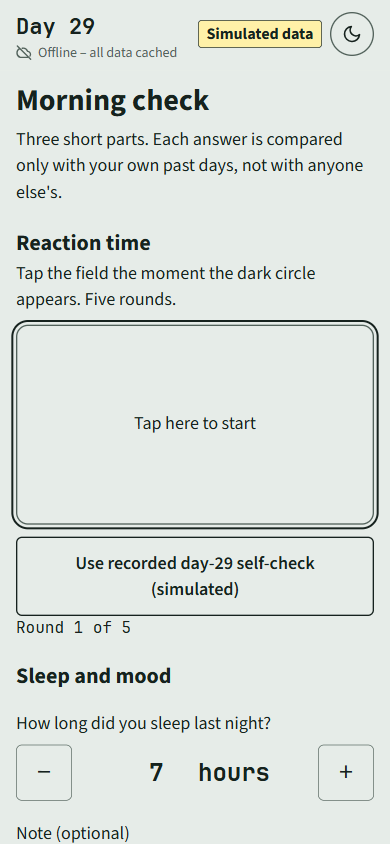
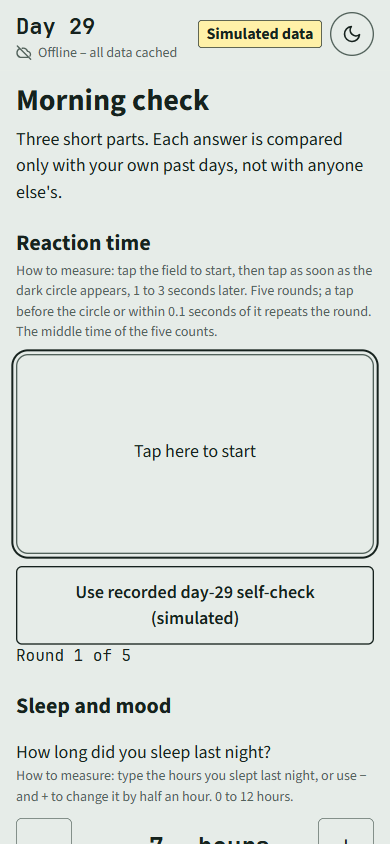
Statement labels: Guidance, Needs flight surgeon attention, and a How to measure line under each self-check part

diff --git a/web/index.html b/web/index.html
@@ -290,7 +290,7 @@ fieldset { border: 0; padding: 0; margin: 28px 0 0; min-width: 0; }
   <p>Three short parts. Each answer is compared only with your own past days, not with anyone else's.</p>
 
   <h2>Reaction time</h2>
-  <p>Tap the field the moment the dark circle appears. Five rounds.</p>
+  <p class="meta how">How to measure: tap the field to start, then tap as soon as the dark circle appears, 1 to 3 seconds later. Five rounds; a tap before the circle or within 0.1 seconds of it repeats the round. The middle time of the five counts.</p>
   <button id="rt-field" class="rt" type="button" aria-describedby="rt-status">
     <span id="rt-dot" class="rt-dot" role="img" aria-label="Circle shown, tap now" hidden></span>
     <span id="rt-text">Tap here to start</span>
@@ -302,6 +302,7 @@ fieldset { border: 0; padding: 0; margin: 28px 0 0; min-width: 0; }
 
   <h2>Sleep and mood</h2>
   <label class="q" for="sleep">How long did you sleep last night?</label>
+  <p class="meta how">How to measure: type the hours you slept last night, or use − and + to change it by half an hour. 0 to 12 hours.</p>
   <div class="stepper">
     <button class="step-btn" type="button" data-step="-0.5" aria-label="Half an hour less">−</button>
     <span class="step-field"><input id="sleep" class="field" type="number" inputmode="decimal" step="0.5" min="0" max="12" value="7"> hours</span>
@@ -312,6 +313,7 @@ fieldset { border: 0; padding: 0; margin: 28px 0 0; min-width: 0; }
 
   <fieldset aria-describedby="quality-ends">
     <legend>How well did you sleep?</legend>
+    <p class="meta how">How to measure: tap one number, from 1 (badly) to 5 (very well).</p>
     <div class="seg">
       <input type="radio" id="quality-1" name="quality" value="1"><label for="quality-1">1</label>
       <input type="radio" id="quality-2" name="quality" value="2"><label for="quality-2">2</label>
@@ -324,6 +326,7 @@ fieldset { border: 0; padding: 0; margin: 28px 0 0; min-width: 0; }
 
   <fieldset aria-describedby="mood-ends">
     <legend>How is your mood this morning?</legend>
+    <p class="meta how">How to measure: tap one number, from 1 (very low) to 5 (very good).</p>
     <div class="seg">
       <input type="radio" id="mood-1" name="mood" value="1"><label for="mood-1">1</label>
       <input type="radio" id="mood-2" name="mood" value="2"><label for="mood-2">2</label>
@@ -335,7 +338,7 @@ fieldset { border: 0; padding: 0; margin: 28px 0 0; min-width: 0; }
   </fieldset>
 
   <h2>Near vision</h2>
-  <p>Hold the phone where you normally read, then read this line.</p>
+  <p class="meta how">How to measure: hold the phone where you normally read, read the line below, then tap Clear or Blurred.</p>
   <p class="eye-line">The galley water heater is back online after the filter swap on Thursday.</p>
   <fieldset>
     <legend>The line looks</legend>
@@ -434,7 +437,7 @@ fieldset { border: 0; padding: 0; margin: 28px 0 0; min-width: 0; }
   <p id="ev-words"></p>
   <p id="ev-study" class="cite"></p>
   <div class="step-card">
-    <h2>Step to consider</h2>
+    <h2>Guidance</h2>
     <p id="ev-step"></p>
     <p id="ev-step-source" class="cite"></p>
   </div>
@@ -463,7 +466,7 @@ fieldset { border: 0; padding: 0; margin: 28px 0 0; min-width: 0; }
 
 <section id="queue" aria-labelledby="queue-title" hidden>
   <button class="text-button back" type="button" data-go="evidence">Back to the evidence</button>
-  <h1 id="queue-title" tabindex="-1">Queued for flight surgeon</h1>
+  <h1 id="queue-title" tabindex="-1">Needs flight surgeon attention</h1>
   <p class="sent">Sent to the queue. Earliest reply in 44 minutes (22 minutes each way at Mars distance).</p>
   <h2>Summary in the queue</h2>
   <div id="message" class="message"></div>

diff --git a/tests/test_web.py b/tests/test_web.py
@@ -283,3 +283,42 @@ def test_7_day_view_shows_the_same_band_and_marks_as_the_30_day_view():
             assert week[k] == month[k][-7:], f"{key} {k}"
     marked = {k.split()[1] for k, v in out.items() if k.startswith("29 ") and any(v["week"]["marks"])}
     assert {"reaction_ms", "hrv_rmssd_ms", "sleep_hours"} <= marked, "the three demo flags show in the 7-day view on day 29"
+
+
+HOW_TO_MEASURE = [
+    ("<h2>Reaction time</h2>", "tap the field to start, then tap as soon as the dark circle appears, 1 to 3 seconds later. "
+     "Five rounds; a tap before the circle or within 0.1 seconds of it repeats the round. The middle time of the five counts."),
+    ('<label class="q" for="sleep">How long did you sleep last night?</label>',
+     "type the hours you slept last night, or use − and + to change it by half an hour. 0 to 12 hours."),
+    ("<legend>How well did you sleep?</legend>", "tap one number, from 1 (badly) to 5 (very well)."),
+    ("<legend>How is your mood this morning?</legend>", "tap one number, from 1 (very low) to 5 (very good)."),
+    ("<h2>Near vision</h2>", "hold the phone where you normally read, read the line below, then tap Clear or Blurred."),
+]
+
+
+def test_statement_labels_guidance_and_needs_flight_surgeon_attention():
+    """PLAN 4a (Gate 1 labels): the step on the evidence card is headed "Guidance" and the queue screen
+    "Needs flight surgeon attention"; the old headings are gone. The queue button keeps its action wording."""
+    html = Path("web/index.html").read_text(encoding="utf-8")
+    evidence = html[html.index('<section id="evidence"'):html.index('<section id="queue"')]
+    assert "<h2>Guidance</h2>" in evidence
+    assert '<h1 id="queue-title" tabindex="-1">Needs flight surgeon attention</h1>' in html
+    for old in ("Step to consider", "Queued for flight surgeon"):
+        assert old not in html and old not in Path("web/app.js").read_text(encoding="utf-8"), old
+    assert '<button id="queue-btn" class="primary" type="button">Queue for flight surgeon</button>' in html
+
+
+def test_one_how_to_measure_line_under_each_self_check_part():
+    """PLAN 4a: one "How to measure" line directly under each part, saying what the person does; the facts in
+    it come from the code (reaction.js rounds, false-start cut and delay; the sleep field's range and step)."""
+    html = Path("web/index.html").read_text(encoding="utf-8")
+    today = html[html.index('<section id="today"'):html.index('<p id="missing"')]
+    found = re.findall(r'<p class="meta how">How to measure: ([^<]+)</p>', today)
+    assert found == [line for _, line in HOW_TO_MEASURE]
+    for anchor, line in HOW_TO_MEASURE:
+        assert re.search(re.escape(anchor) + r'\s*<p class="meta how">How to measure: ' + re.escape(line), today), anchor
+        assert not [p for p in BLOCKED if p in line.lower()]
+    js = Path("web/reaction.js").read_text(encoding="utf-8")
+    assert "const ROUNDS = 5;" in js and "const GUESS_MS = 100;" in js and "1000 + random * 2000" in js
+    assert 'step="0.5" min="0" max="12"' in today
+    assert '<label for="vision-clear">Clear</label>' in today and '<label for="vision-blurred">Blurred</label>' in today

diff --git a/README.md b/README.md
@@ -9,7 +9,7 @@
   &nbsp;
   <img src="web/screenshots/3-flags-390.png" width="260" alt="Flag list: reaction time, heart rate variability and sleep are outside the usual range today, and several readings moved together within 48 hours.">
   &nbsp;
-  <img src="web/screenshots/4-evidence-390.png" width="260" alt="Evidence card for reaction time: the change in plain words, the numbers, why it matters with the NTRS source link, and a step to consider.">
+  <img src="web/screenshots/4-evidence-390.png" width="260" alt="Evidence card for reaction time: the change in plain words, the numbers, why it matters with the NTRS source link, and "Guidance": one step.">
 </p>
 
 > **Every vital sign in this repository is simulated.** There is no real crew data. The demo page says "Simulated data" on every screen. The real feeds are NASA MSL RAD (Mars surface radiation, CDAWeb dataset MSL_RAD_OBS-L2) and NOAA GOES solar protons, shown together in their own box, "Real data: NASA MSL RAD and NOAA GOES".
@@ -23,7 +23,7 @@
 ```mermaid
 flowchart LR
     A["<b>Gather</b><br/>Wearable record (simulated)<br/>2-minute self-check<br/>NASA MSL RAD Mars radiation (real)<br/>NOAA solar protons (real)"] --> B["<b>Evaluate</b><br/>Compare with this person's<br/>own 30-day range"]
-    B --> C["<b>Explain</b><br/>Numbers + NASA study<br/>+ step to consider"]
+    B --> C["<b>Explain</b><br/>Numbers + NASA study<br/>+ guidance"]
     C --> D["<b>Act</b><br/>Queue for flight surgeon<br/>Check again tomorrow"]
     style A fill:#E6ECE8,stroke:#52625B,color:#16221E
     style B fill:#C5D3CA,stroke:#52625B,color:#16221E
@@ -67,7 +67,7 @@ pytest -q
 python -m baseline.serve
 ```
 
-`pytest -q` should print **84 passed**. The last line opens the demo in your browser at http://localhost:8000 (or 8001–8010 if busy). Ctrl+C stops it.
+`pytest -q` should print **86 passed**. The last line opens the demo in your browser at http://localhost:8000 (or 8001–8010 if busy). Ctrl+C stops it.
 
 **On a phone:** `python -m baseline.serve --lan`, then open the second address it prints on a phone on the same wifi. Windows may ask to let Python through the firewall; allow it for private networks.
 
@@ -97,14 +97,14 @@ For a repeatable demo, use the **"Use recorded day-29 self-check"** button in st
 | 1 | **Self-check** | A guide card, then a 5-round reaction test, sleep hours, sleep quality, mood, and a near-vision line. About 2 minutes. |
 | 2 | **Console** | "Health status": one chart per signal, seven in all (heart rate, heart rate variability (HRV), blood oxygen, core temperature, sleep, mood and reaction time); a 7 days · 30 days switch (30 by default, same usual range in both). Grey band = your usual range. Orange dot = flagged. Orange ring = being watched. |
 | 3 | **What changed** | Each flag in two lines: today's value against your usual, then a plain status such as "Well outside your usual range, third day running." A signal outside its usual range three days running also gets a trend card under its flag: the three values, the change per day from a least-squares line through them, and whether a straight line from today gets back inside the usual range within 30 days, labelled "Projection from your own last 3 days, not a forecast." |
-| 4 | **Evidence card** | The change in plain words, the numbers, why it matters (study finding in bold, source linked), and one step to consider. "Show the maths" opens a histogram of the days the rule used (28 on day 29), today's line, the usual ± 2 SD lines and the sum in words, e.g. "Today is (338.3 − 281.4) ÷ 16.3 = 3.5 spreads above your usual." |
+| 4 | **Evidence card** | The change in plain words, the numbers, why it matters (study finding in bold, source linked), and "Guidance": one step. "Show the maths" opens a histogram of the days the rule used (28 on day 29), today's line, the usual ± 2 SD lines and the sum in words, e.g. "Today is (338.3 − 281.4) ÷ 16.3 = 3.5 spreads above your usual." |
 | 5 | **Queue for flight surgeon** | The summary, and "Earliest reply in 44 minutes (22 minutes each way at Mars distance)." Display only. Nothing is sent. |
 | 6 | **Next day** | Day 30: each of yesterday's flags compared with today. "Start the demo again" returns to step 1. |
 
 <p align="center">
   <img src="web/screenshots/0-guide-390.png" width="200" alt="First-open guide card">
   <img src="web/screenshots/1-today-390.png" width="200" alt="Self-check screen">
-  <img src="web/screenshots/5-queue-390.png" width="200" alt="Queued for flight surgeon">
+  <img src="web/screenshots/5-queue-390.png" width="200" alt="Needs flight surgeon attention: the summary in the queue">
   <img src="web/screenshots/6-next-day-390.png" width="200" alt="Next day: readings back inside the usual range">
 </p>
 
@@ -208,7 +208,7 @@ web/                    the page: index.html, app.js, rules.js, trend.js, projec
 data/fixtures/          simulated 30-day records (clean, anomaly)
 cache/                  NTRS, OSDR and NOAA responses with source URL and fetch time
 docs/                   evidence map, evidence notes, design notes
-tests/                  84 tests
+tests/                  86 tests
 ```
 
 ---
